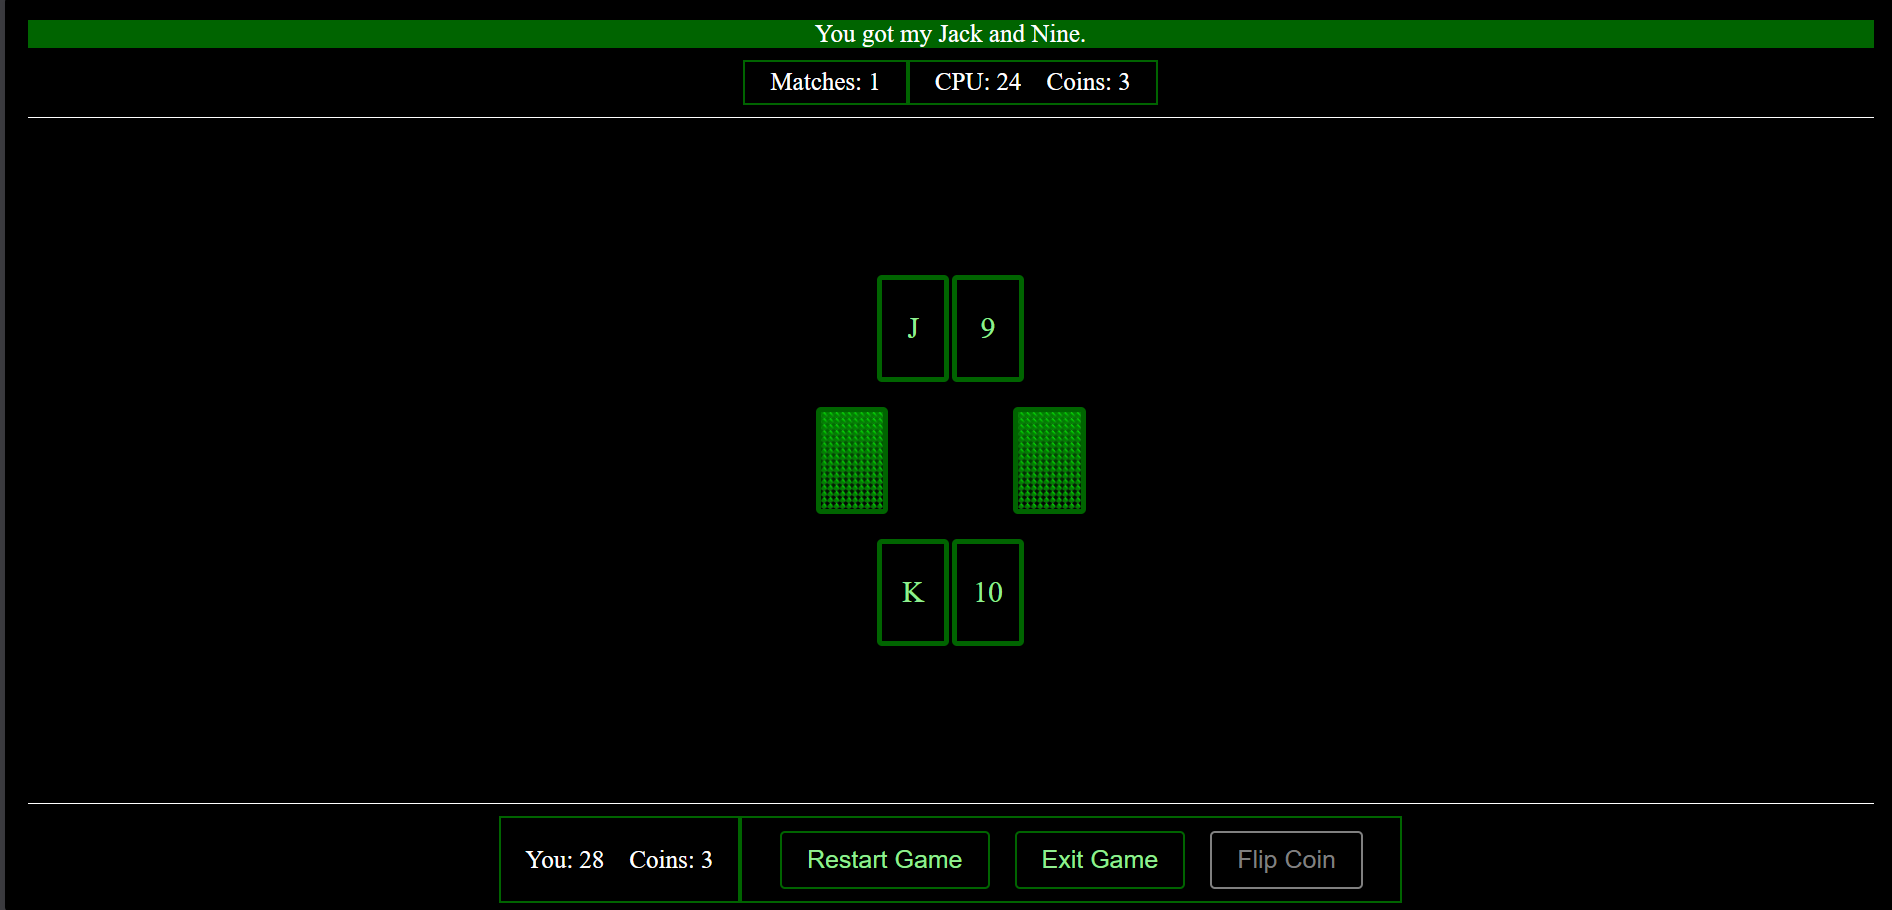
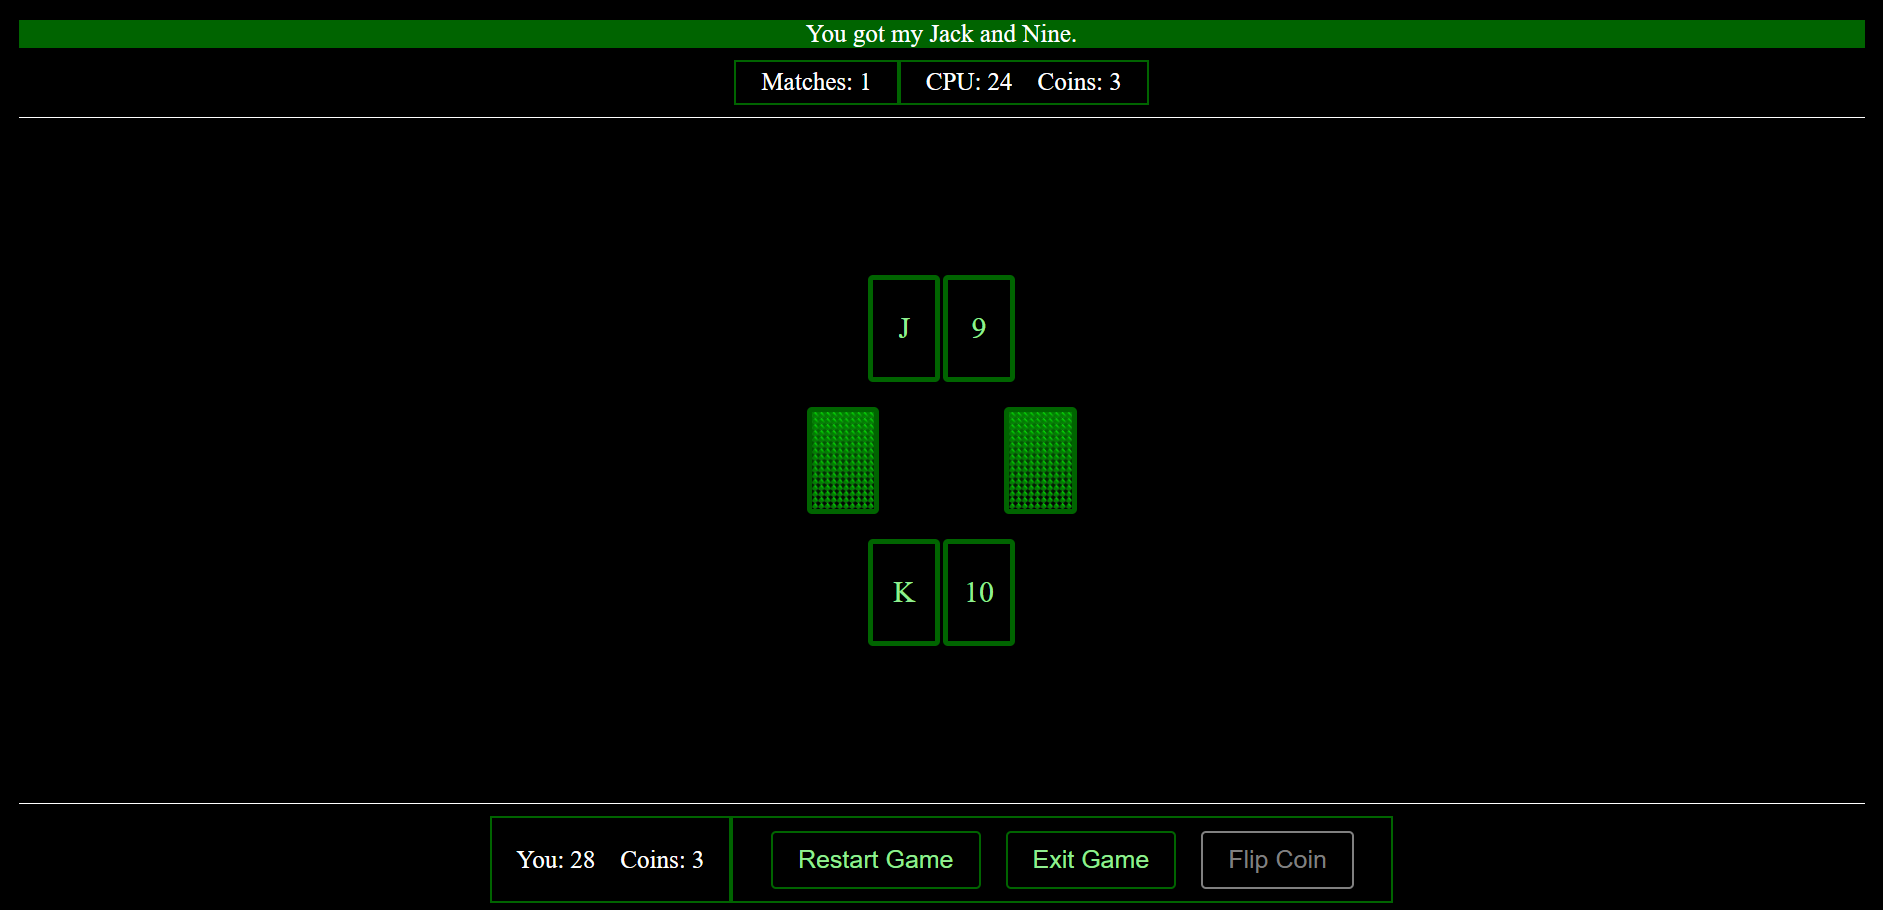
Apr 15, 2026, 6:22 PM

diff --git a/pages/projects.html b/pages/projects.html
@@ -37,7 +37,6 @@
     <main role="main">
         <section role="region" aria-labelledby="projects-heading">
             <h1 id="projects-heading">Projects</h1>
-            <p align="center">There will be projects added here soon.</p>
         </section>
         <!-- <a href="https://steveniannucci.github.io/war-card-game/" target="_blank">War Card Game</a> -->
         <img id="war-card-game-promo" src="../images/war-card-game-promo.png">

diff --git a/styles/styles.css b/styles/styles.css
@@ -392,7 +392,7 @@ li {
 
 #war-card-game-promo {
     display: block;
-    width: 400px;
+    width: 60%;
     margin: 0 auto;
 }
 
